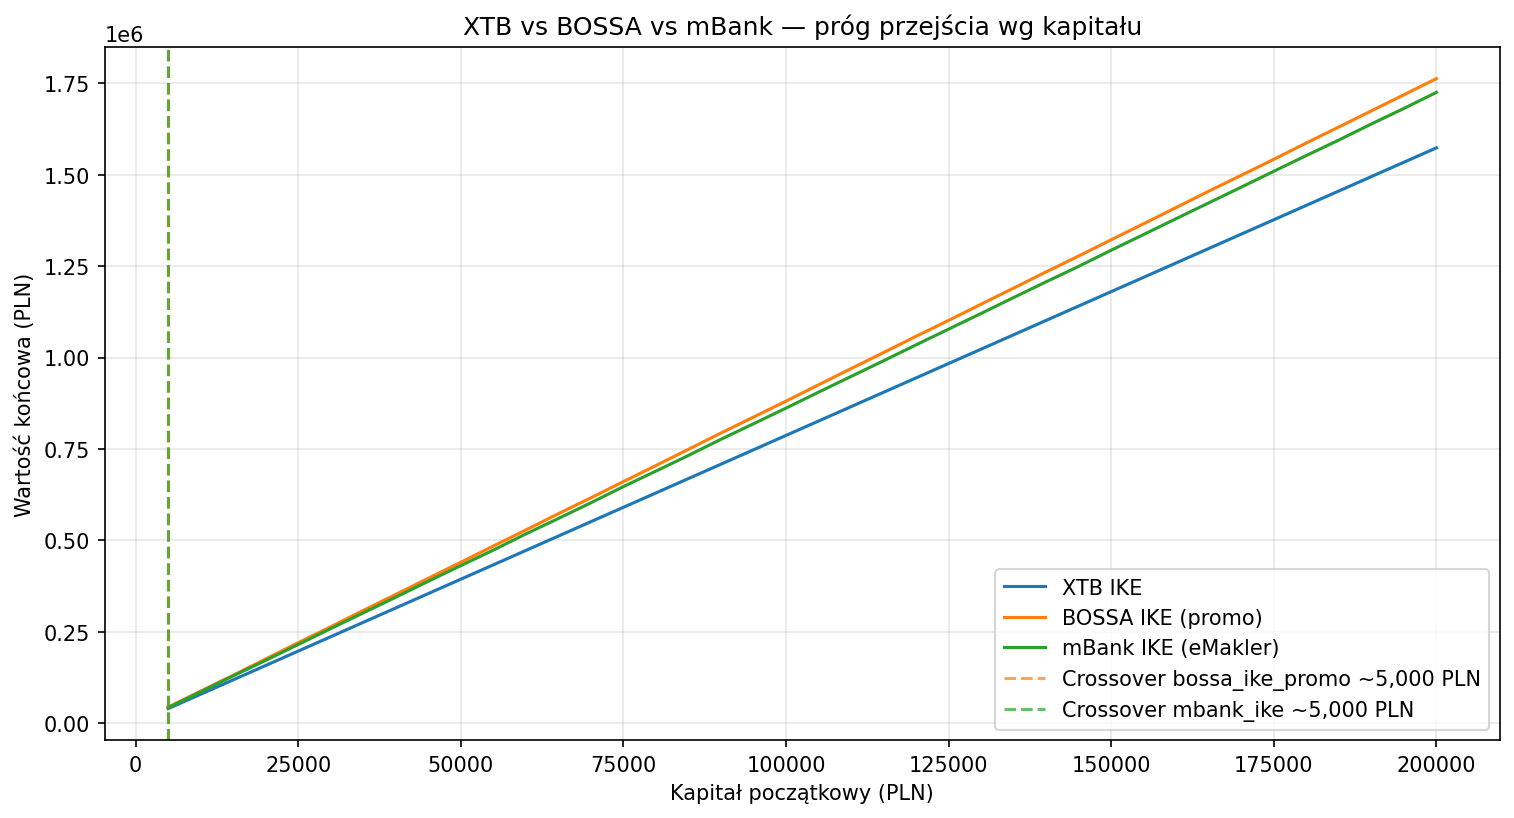
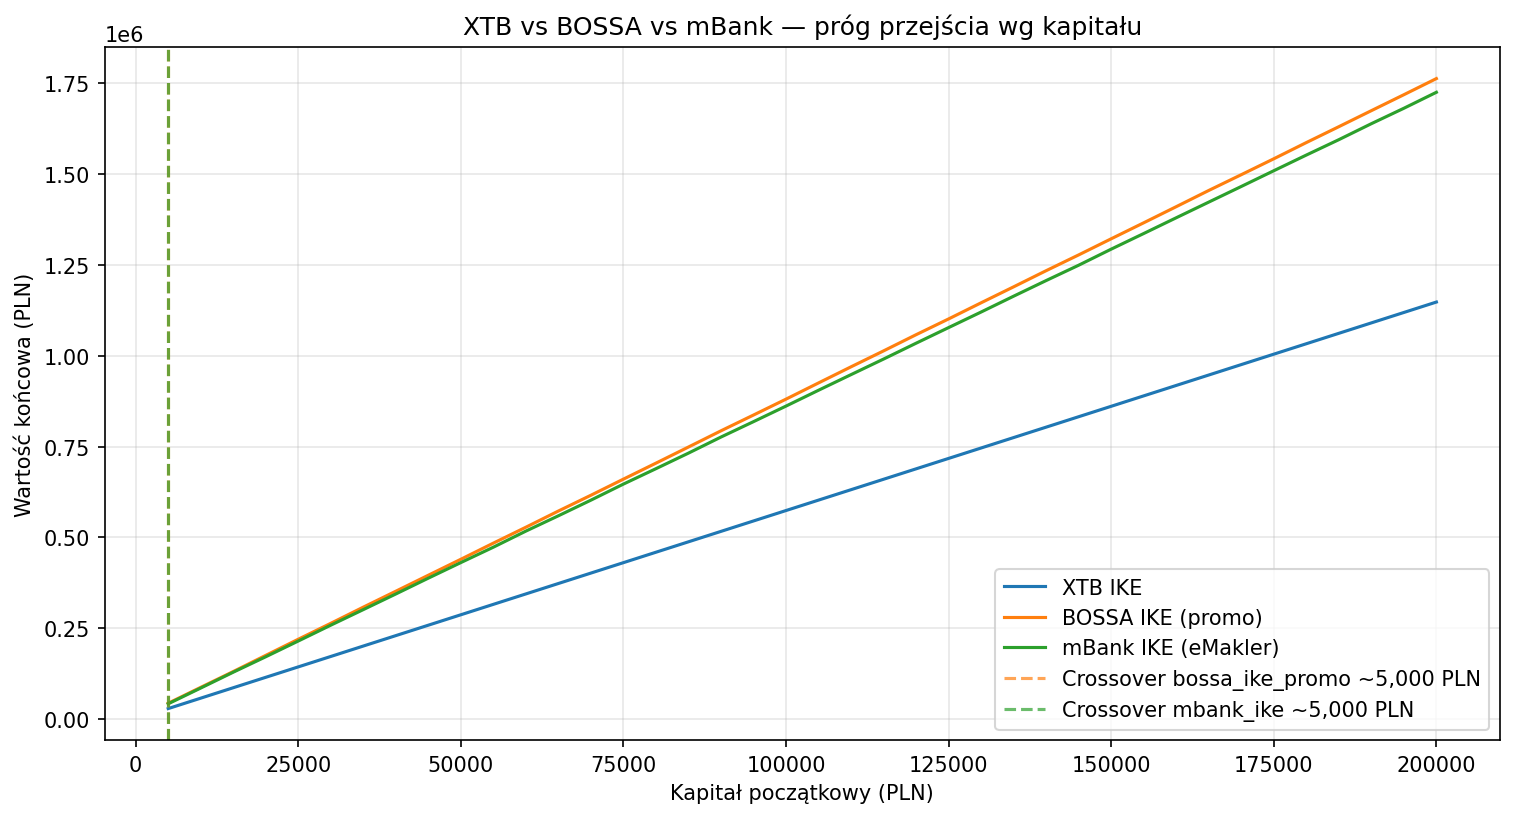
Benchmark IWDA.L + nowa logika wyboru deadbandu
- Benchmark: IWDA.L buy-and-hold (MSCI World, pasywny)
- Nowe kryterium deadbandu: MaxDD strategii <= MaxDD benchmarku,
  potem max excess CAGR nad benchmark
- Benchmark widoczny na wykresie equity curves
- Decision memo z sekcją benchmark i excess CAGR per broker

Made-with: Cursor

diff --git a/run_all.py b/run_all.py
@@ -58,6 +58,20 @@ def print_header(text: str):
     print(f"\n{bar}\n  {text}\n{bar}")
 
 
+def compute_benchmark(prices: pd.DataFrame, ticker: str,
+                      initial_capital: float) -> dict:
+    """Buy-and-hold benchmark: invest initial_capital in ticker at first available date."""
+    if ticker not in prices.columns:
+        return {}
+    s = prices[ticker].dropna()
+    if s.empty:
+        return {}
+    equity = initial_capital * s / s.iloc[0]
+    m = compute_all(equity, label=f"Benchmark ({ticker})")
+    m["ticker"] = ticker
+    return m
+
+
 # ════════════════════════════════════════════════════════════════════
 #  ETAP 1 — Data contract & validation
 # ════════════════════════════════════════════════════════════════════
@@ -65,6 +79,9 @@ def print_header(text: str):
 def etap1(cfg):
     print_header("ETAP 1: Pobieranie danych i walidacja")
     tickers = all_tickers(cfg)
+    benchmark_ticker = cfg["data"].get("benchmark", "VWRL.L")
+    if benchmark_ticker not in tickers:
+        tickers.append(benchmark_ticker)
     print(f"  Tickers: {tickers}")
 
     prices = fetch_prices(
@@ -116,6 +133,15 @@ def etap2(cfg, prices, brokers):
         print(f"    Rotacje = {res.num_rotations}, Koszty = {res.total_costs:.2f}, "
               f"Podatki = {res.total_taxes:.2f}")
         print(f"    Wartość końcowa = {m['final_value']:.2f}")
+
+    # add benchmark buy-and-hold to the plot
+    bench_ticker = cfg["data"].get("benchmark", "VWRL.L")
+    if bench_ticker in prices.columns:
+        bench_s = prices[bench_ticker].dropna()
+        bench_equity = cap * bench_s / bench_s.iloc[0]
+        ax.plot(bench_equity.index, bench_equity.values,
+                label=f"Benchmark ({bench_ticker})", linewidth=2,
+                linestyle="--", color="black", alpha=0.6)
 
     ax.set_title("Baseline GEM (U5, deadband=0) — porównanie brokerów")
     ax.set_ylabel("Wartość portfela (PLN)")
@@ -178,7 +204,7 @@ def etap3(cfg, prices, brokers):
 #  ETAP 4 — Deadband calibration
 # ════════════════════════════════════════════════════════════════════
 
-def etap4(cfg, prices, brokers):
+def etap4(cfg, prices, brokers, benchmark_metrics):
     print_header("ETAP 4: Kalibracja deadbandu (statyczny + dynamiczny)")
     u5 = cfg["universes"]["U5"]
     risky = [t for t in u5["risky"] if t in prices.columns]
@@ -186,28 +212,46 @@ def etap4(cfg, prices, brokers):
     cap = cfg["portfolio"]["initial_capital_pln"]
     db_cfg = cfg["deadband"]
 
+    bench_maxdd = benchmark_metrics.get("max_drawdown", -1.0) if benchmark_metrics else -1.0
+    bench_cagr = benchmark_metrics.get("cagr", 0.0) if benchmark_metrics else 0.0
+    print(f"\n  Benchmark: CAGR={bench_cagr:.2%}, MaxDD={bench_maxdd:.2%}")
+    print(f"  Reguła: MaxDD strategii <= MaxDD benchmarku, potem max excess CAGR")
+
     deadbands = list(np.arange(
         db_cfg["static_range"][0],
         db_cfg["static_range"][1] + db_cfg["static_step"],
         db_cfg["static_step"],
     ))
 
-    # Static sweep for each broker — find optimum
     optimal = {}
     for bname, broker in brokers.items():
         df = sweep_deadbands(prices, broker, risky, safe, cap, deadbands)
+        df["excess_cagr"] = df["cagr"] - bench_cagr
 
-        best_idx = df["sharpe"].idxmax()
-        best_row = df.loc[best_idx]
+        # Filter: MaxDD must not exceed benchmark MaxDD
+        safe_df = df[df["max_drawdown"] >= bench_maxdd]  # maxdd is negative
+
+        if not safe_df.empty:
+            best_idx = safe_df["excess_cagr"].idxmax()
+            best_row = safe_df.loc[best_idx]
+            selection_note = "MaxDD <= benchmark"
+        else:
+            # No deadband passes the drawdown filter — fall back to min drawdown
+            best_idx = df["max_drawdown"].idxmax()  # least negative
+            best_row = df.loc[best_idx]
+            selection_note = "fallback: min MaxDD (none passed benchmark filter)"
+
         optimal[bname] = dict(
             deadband=best_row["deadband"],
             sharpe=best_row["sharpe"],
             cagr=best_row["cagr"],
+            excess_cagr=best_row["cagr"] - bench_cagr,
             max_drawdown=best_row["max_drawdown"],
             rotations=best_row["rotations"],
         )
-        print(f"\n  {broker.name}: optymalny deadband = {best_row['deadband']:.3f}")
-        print(f"    Sharpe = {best_row['sharpe']:.2f}, CAGR = {best_row['cagr']:.2%}, "
+        print(f"\n  {broker.name}: optymalny deadband = {best_row['deadband']:.3f} ({selection_note})")
+        print(f"    CAGR = {best_row['cagr']:.2%} (excess: {best_row['cagr'] - bench_cagr:+.2%}), "
+              f"Sharpe = {best_row['sharpe']:.2f}, "
               f"MaxDD = {best_row['max_drawdown']:.2%}, Rotacje = {int(best_row['rotations'])}")
 
     # Dynamic deadband tests
@@ -382,7 +426,7 @@ def etap6(cfg, prices, daily_prices, broker, optimal_db):
 #  ETAP 7 — Decision memo
 # ════════════════════════════════════════════════════════════════════
 
-def etap7(cfg, baseline_summary, optimal_dbs, universe_comp, wf_result, prices, brokers):
+def etap7(cfg, baseline_summary, optimal_dbs, universe_comp, wf_result, prices, brokers, benchmark_metrics=None):
     print_header("ETAP 7: Rekomendacja końcowa")
 
     cap = cfg["portfolio"]["initial_capital_pln"]
@@ -475,11 +519,13 @@ def etap7(cfg, baseline_summary, optimal_dbs, universe_comp, wf_result, prices, 
 
     # Generate decision memo
     _write_decision_memo(cfg, baseline_summary, optimal_dbs, universe_comp,
-                         wf_result, crossover_capitals, contrib_df, brokers)
+                         wf_result, crossover_capitals, contrib_df, brokers,
+                         benchmark_metrics)
 
 
 def _write_decision_memo(cfg, baseline, optimal_dbs, universe_comp,
-                         wf_result, crossover_capitals, contrib_df, brokers):
+                         wf_result, crossover_capitals, contrib_df, brokers,
+                         benchmark_metrics=None):
     cap = cfg["portfolio"]["initial_capital_pln"]
 
     # Gather baseline metrics for all IKE brokers
@@ -506,8 +552,9 @@ def _write_decision_memo(cfg, baseline, optimal_dbs, universe_comp,
     for bk in ike_keys:
         if bk in optimal_dbs:
             db_val = optimal_dbs[bk].get("deadband", 0.0)
+            excess = optimal_dbs[bk].get("excess_cagr", 0.0)
             label = brokers[bk].name if bk in brokers else bk
-            db_rows.append(f"| {label} | {db_val:.3f} ({db_val*100:.1f}%) |")
+            db_rows.append(f"| {label} | {db_val:.3f} ({db_val*100:.1f}%) | {excess:+.2%} |")
 
     # recommended universe
     if universe_comp is not None and not universe_comp.empty:
@@ -555,17 +602,35 @@ def _write_decision_memo(cfg, baseline, optimal_dbs, universe_comp,
     if not crossover_capitals:
         memo += "- Żaden alternatywny broker nie bije XTB w testowanym zakresie (lub jest lepszy od początku).\n"
 
+    # benchmark line
+    if benchmark_metrics:
+        bench_ticker = benchmark_metrics.get("ticker", "VWRL.L")
+        bench_cagr = benchmark_metrics.get("cagr", 0)
+        bench_maxdd = benchmark_metrics.get("max_drawdown", 0)
+        bench_final = benchmark_metrics.get("final_value", 0)
+        bench_section = f"""
+## Benchmark: {bench_ticker} (pasywny buy-and-hold)
+- CAGR: {bench_cagr:.2%}
+- MaxDD: {bench_maxdd:.2%}
+- Wartość końcowa: {bench_final:,.0f} PLN
+
+Reguła GEM: strategia ma sens tylko jeśli **MaxDD strategii <= MaxDD benchmarku**.
+Optymalny deadband = najwyższy excess return nad benchmark spośród wariantów spełniających ten warunek.
+"""
+    else:
+        bench_section = ""
+
+    memo += bench_section
+
     memo += f"""
 ## 2. Optymalny deadband
 
-| Broker | Deadband |
-|--------|----------|
+| Broker | Deadband | Excess CAGR |
+|--------|----------|-------------|
 {chr(10).join(db_rows)}
 
-Deadband chroni przed whipsawingiem i kompensuje koszty transakcyjne.
-Przy XTB wyższy próg jest konieczny ze względu na 1% koszt FX na rotację.
-mBank ma niższy koszt FX (0.2% round-trip), ale brak subkont walutowych
-powoduje naliczenie FX na obu nogach każdej rotacji.
+Kryterium wyboru: spośród deadbandów, których MaxDD nie przekracza MaxDD benchmarku,
+wybierany jest ten z najwyższym excess CAGR (nadwyżką nad benchmark).
 
 ## 3. Uniwersum ETF
 
@@ -641,6 +706,15 @@ def main():
     except Exception as e:
         print(f"  Nie udało się pobrać danych dziennych: {e}")
 
+    # Benchmark buy-and-hold
+    bench_ticker = cfg["data"].get("benchmark", "VWRL.L")
+    cap = cfg["portfolio"]["initial_capital_pln"]
+    benchmark_metrics = compute_benchmark(prices, bench_ticker, cap)
+    if benchmark_metrics:
+        print(f"\n  Benchmark ({bench_ticker}): CAGR={benchmark_metrics['cagr']:.2%}, "
+              f"MaxDD={benchmark_metrics['max_drawdown']:.2%}, "
+              f"Wartość końcowa={benchmark_metrics['final_value']:.0f}")
+
     # ETAP 2 — baseline
     baseline_summary = etap2(cfg, prices, brokers)
 
@@ -648,7 +722,7 @@ def main():
     all_sweep = etap3(cfg, prices, brokers)
 
     # ETAP 4 — deadband calibration
-    optimal_dbs, dyn_df = etap4(cfg, prices, brokers)
+    optimal_dbs, dyn_df = etap4(cfg, prices, brokers, benchmark_metrics)
 
     # ETAP 5 — universe expansion (use XTB as primary broker)
     primary_broker_name = "xtb_ike"
@@ -661,7 +735,7 @@ def main():
 
     # ETAP 7 — decision
     etap7(cfg, baseline_summary, optimal_dbs, universe_comp, wf_result,
-          prices, brokers)
+          prices, brokers, benchmark_metrics)
 
     print_header("ANALIZA ZAKOŃCZONA")
     print(f"  Wyniki zapisane w: {RESULTS}")

diff --git a/results/decision_memo.md b/results/decision_memo.md
@@ -21,23 +21,29 @@ Przy kapitale 9000 PLN, najlepszy wynik końcowy daje BOSSA IKE (promo) (XTB IKE
 - BOSSA IKE (promo) > XTB od kapitału ~5,000 PLN
 - mBank IKE (eMakler) > XTB od kapitału ~5,000 PLN
 
+## Benchmark: IWDA.L (pasywny buy-and-hold)
+- CAGR: 11.72%
+- MaxDD: -24.05%
+- Wartość końcowa: 42,822 PLN
+
+Reguła GEM: strategia ma sens tylko jeśli **MaxDD strategii <= MaxDD benchmarku**.
+Optymalny deadband = najwyższy excess return nad benchmark spośród wariantów spełniających ten warunek.
+
 ## 2. Optymalny deadband
 
-| Broker | Deadband |
-|--------|----------|
-| XTB IKE | 0.068 (6.8%) |
-| BOSSA IKE (promo) | 0.068 (6.8%) |
-| mBank IKE (eMakler) | 0.068 (6.8%) |
+| Broker | Deadband | Excess CAGR |
+|--------|----------|-------------|
+| XTB IKE | 0.012 (1.2%) | +2.72% |
+| BOSSA IKE (promo) | 0.068 (6.8%) | +6.36% |
+| mBank IKE (eMakler) | 0.068 (6.8%) | +6.28% |
 
-Deadband chroni przed whipsawingiem i kompensuje koszty transakcyjne.
-Przy XTB wyższy próg jest konieczny ze względu na 1% koszt FX na rotację.
-mBank ma niższy koszt FX (0.2% round-trip), ale brak subkont walutowych
-powoduje naliczenie FX na obu nogach każdej rotacji.
+Kryterium wyboru: spośród deadbandów, których MaxDD nie przekracza MaxDD benchmarku,
+wybierany jest ten z najwyższym excess CAGR (nadwyżką nad benchmark).
 
 ## 3. Uniwersum ETF
 
-Rekomendowane: **U5**
-U5 (5 ETF-ów): Sharpe=1.13, CAGR=17.26%
+Rekomendowane: **U5_common**
+U5_common (5 ETF-ów): Sharpe=0.97, CAGR=14.44%
 
 ## 4. Walidacja Out-of-Sample
 
@@ -47,10 +53,10 @@ U5 (5 ETF-ów): Sharpe=1.13, CAGR=17.26%
 
 |   monthly_contribution |   bossa_ike_promo |   bossa_ike_standard |   mbank_ike |   taxed_account |   xtb_ike |
 |-----------------------:|------------------:|---------------------:|------------:|----------------:|----------:|
-|                      0 |           77875.9 |              73113.4 |     77182.3 |         56103.5 |   70813.4 |
-|                    500 |          119571   |             111048   |    116495   |         85547.4 |  107560   |
-|                   1000 |          161044   |             149383   |    156685   |        114991   |  144306   |
-|                   2000 |          243081   |             226597   |    237939   |        173879   |  217800   |
+|                      0 |           77875.9 |              73113.4 |     77182.3 |         46032   |   51658.3 |
+|                    500 |          119571   |             111048   |    116495   |         70150.1 |   78416.9 |
+|                   1000 |          161044   |             149383   |    156685   |         94268.3 |  105175   |
+|                   2000 |          243081   |             226597   |    237939   |        142505   |  158693   |
 
 ## Podsumowanie decyzji
 
